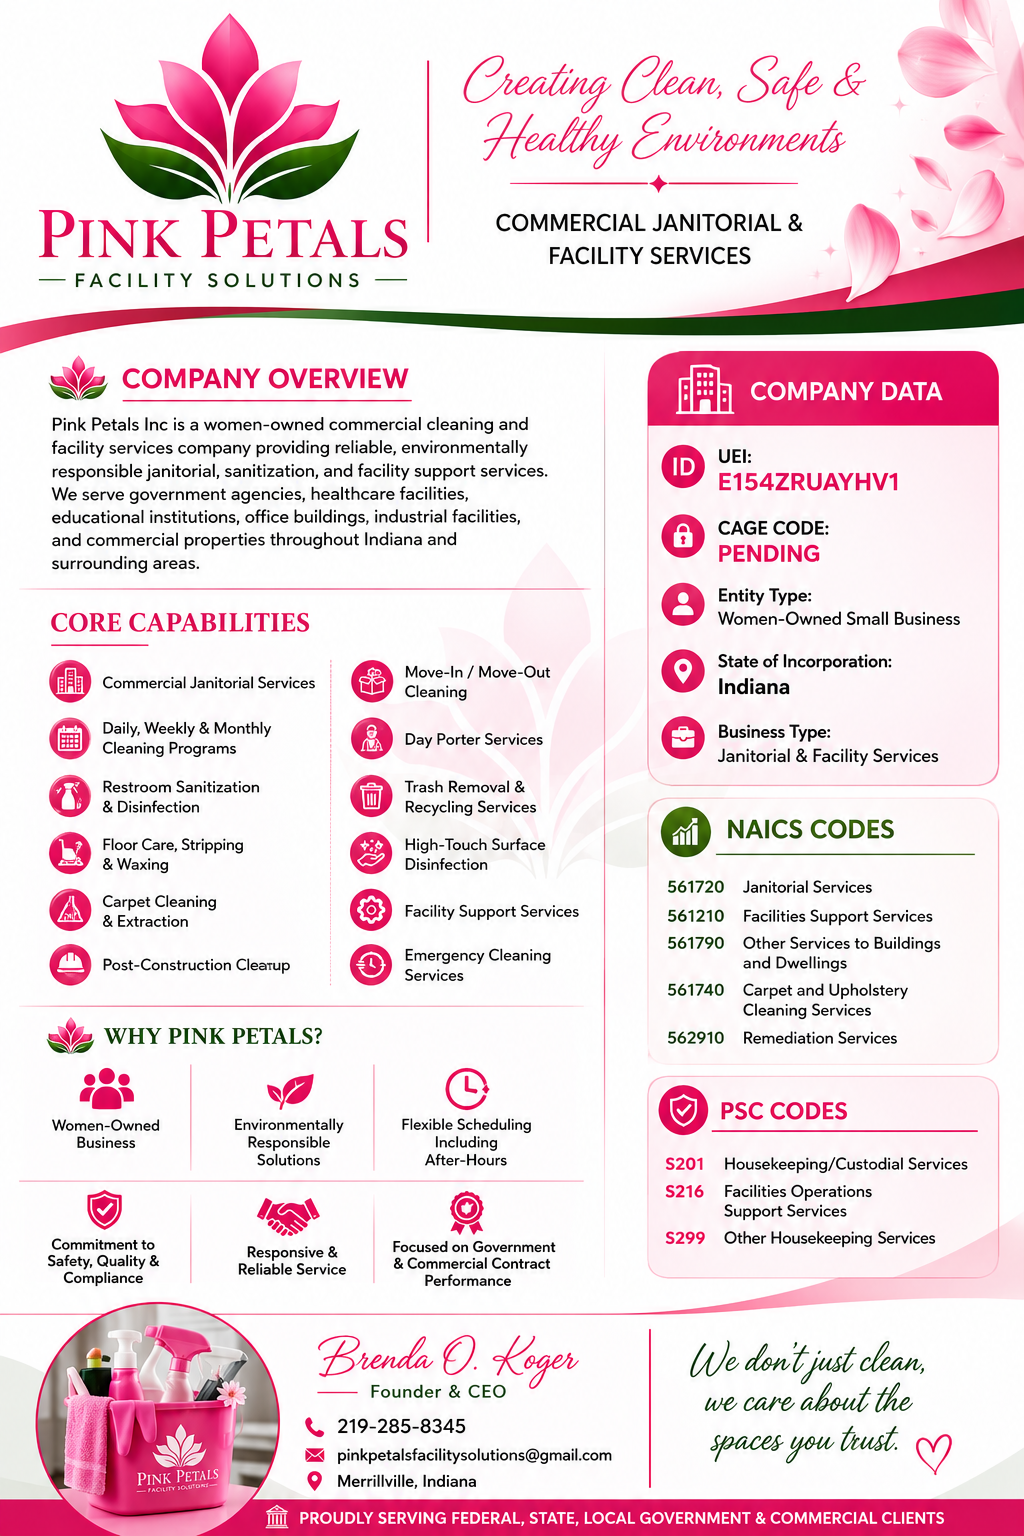
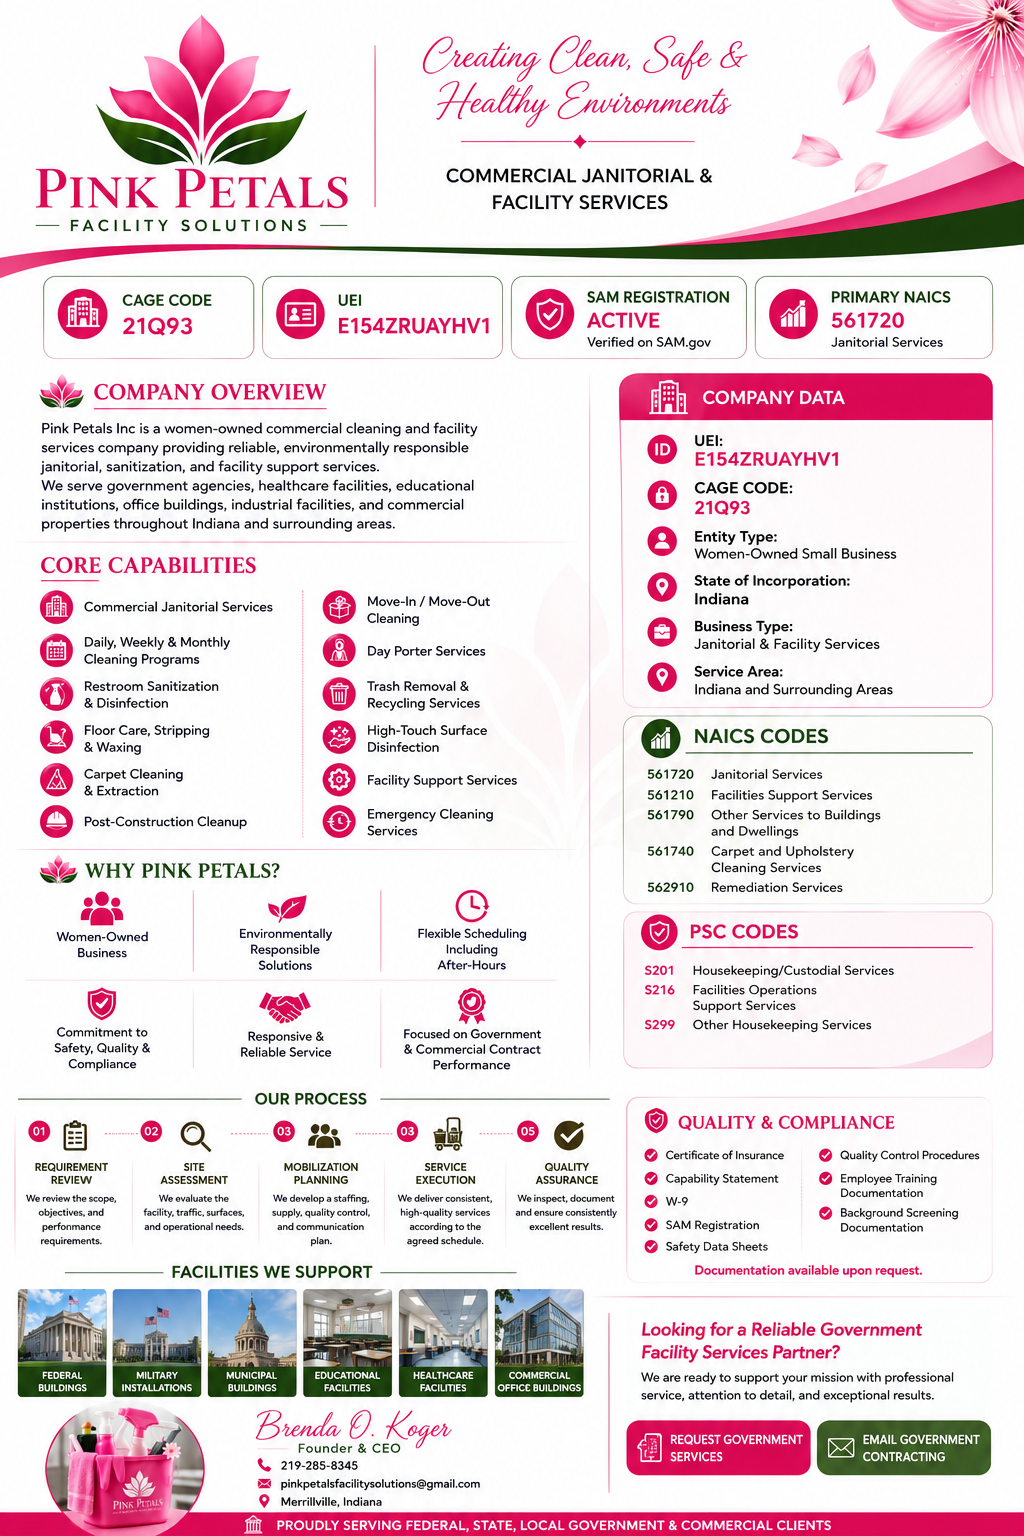
Add capability statement image and preview section to government page
- Replaces old placeholder with new full capability statement PNG
- Adds .gov-cap-section preview card with thumbnail, description, and download button
- Hero download button now uses named filename for cleaner downloads
- Capability statement document (as image) shows UEI for procurement officers — UEI remains absent from page HTML text per policy

Claude-Session: https://claude.ai/code/session_01QrToo2DpxqbZeEKinBnJyZ

diff --git a/government.html b/government.html
@@ -290,7 +290,7 @@
       </p>
 
       <div class="gov-hero-ctas">
-        <a href="images/capability-statement.png" download class="gov-hero-btn-dl">
+        <a href="images/capability-statement.png" download="PinkPetals-CapabilityStatement.png" class="gov-hero-btn-dl">
           <svg width="15" height="15" viewBox="0 0 24 24" fill="none" stroke="currentColor" stroke-width="2.2" stroke-linecap="round" stroke-linejoin="round" aria-hidden="true"><path d="M21 15v4a2 2 0 0 1-2 2H5a2 2 0 0 1-2-2v-4"/><polyline points="7 10 12 15 17 10"/><line x1="12" y1="15" x2="12" y2="3"/></svg>
           Download Capability Statement
         </a>
@@ -334,6 +334,48 @@
 
   </div>
 </div>
+
+
+<!-- ══════════════════════════════════════════════════
+     CAPABILITY STATEMENT
+══════════════════════════════════════════════════ -->
+<section class="gov-cap-section" aria-labelledby="cap-heading">
+  <div class="wrap">
+    <div class="gov-cap-card" data-reveal="up">
+
+      <div class="gov-cap-thumb">
+        <img src="images/capability-statement.png"
+             alt="Pink Petals Facility Solutions — Capability Statement"
+             class="gov-cap-img">
+        <div class="gov-cap-thumb-overlay">
+          <svg width="11" height="11" viewBox="0 0 24 24" fill="none" stroke="currentColor" stroke-width="2.2" stroke-linecap="round" stroke-linejoin="round" aria-hidden="true"><path d="M14 2H6a2 2 0 0 0-2 2v16a2 2 0 0 0 2 2h12a2 2 0 0 0 2-2V8z"/><polyline points="14 2 14 8 20 8"/></svg>
+          Capability Statement
+        </div>
+      </div>
+
+      <div class="gov-cap-info">
+        <p class="eyebrow gov-cap-eyebrow">For Procurement Officers</p>
+        <h2 class="gov-cap-h2" id="cap-heading">Capability Statement</h2>
+        <p class="gov-cap-desc">
+          Our one-page capability statement covers our core services, CAGE Code, NAICS codes,
+          PSC codes, past performance, and key differentiators — everything a contracting
+          officer needs to evaluate Pink Petals for a federal, state, or local award.
+        </p>
+        <div class="gov-cap-actions">
+          <a href="images/capability-statement.png" download="PinkPetals-CapabilityStatement.png" class="gov-cap-btn gov-cap-btn--primary">
+            <svg width="15" height="15" viewBox="0 0 24 24" fill="none" stroke="currentColor" stroke-width="2.2" stroke-linecap="round" stroke-linejoin="round" aria-hidden="true"><path d="M21 15v4a2 2 0 0 1-2 2H5a2 2 0 0 1-2-2v-4"/><polyline points="7 10 12 15 17 10"/><line x1="12" y1="15" x2="12" y2="3"/></svg>
+            Download Capability Statement
+          </a>
+          <a href="pages/contact.html" class="gov-cap-btn gov-cap-btn--ghost">
+            Discuss a Requirement
+            <svg width="13" height="13" viewBox="0 0 16 16" fill="none" aria-hidden="true"><path d="M3 8h10M9 4l4 4-4 4" stroke="currentColor" stroke-width="1.6" stroke-linecap="round" stroke-linejoin="round"/></svg>
+          </a>
+        </div>
+      </div>
+
+    </div>
+  </div>
+</section>
 
 
 <!-- ══════════════════════════════════════════════════
